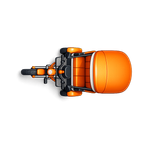
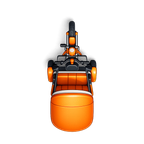
fix(driver): post-completion hero shows GROSS + TC clarity + triciclo PNG NORTH
Driver post-completion UX cleanup (TripCompleteView + trip/[id] detail):

HERO (TripCompleteView only):
- ANTES: "+$2,805 este viaje" mostrando el NET (fare − commission + tip)
- DESPUÉS: "Tarifa del viaje: $3,300" mostrando el GROSS (lo cobrado
  al cliente). El driver y el cliente ven el mismo número.

BREAKDOWN (both screens, mismo cambio):
- QUITADO: fila "Te llevás / Cobras en efectivo: X CUP" + separator
  anterior. El hero ya da el contexto principal; el net se entiende
  del cálculo (Tarifa − Comisión + Tip).
- AGREGADO: equivalencia TC al lado del valor CUP de comisión:
  "Comisión plataforma (15%): -$495 (= 495 TC)"
- CAPTION: cambia de "La comisión se descuenta de tu saldo" a
  "Se descuenta de tu saldo TriciCoin (1 CUP = 1 TC)" — siempre
  visible (no más condicional a isCash, porque la comisión SIEMPRE
  se descuenta del TC del driver, confirmado con user 2026-05-24).

i18n (es/en/pt):
- "earned_this_ride": "Tarifa del viaje: {{amount}}" (+ EN/PT eq.)
- "commission_deducted": "Se descuenta de tu saldo TriciCoin (1 CUP = 1 TC)"
- new key "tc_equivalent": "(= {{tc}} TC)" — abreviatura compartida

PNGs (cherry-pick del work manual del user):
- apps/driver/assets/vehicles/markers/triciclo{,@2x,@3x}.png rotados
  manualmente por el user para que apunten NORTH como los otros vehicles
  (moto/auto/confort). Cierra el bug "triciclo apunta a la izquierda"
  que dejé pendiente en el PR #182 (yo asumí incorrectamente que el
[…]

Changed region(s): [[0.1111, 0.1111, 0.9167, 0.9167]]

diff --git a/apps/driver/src/components/trip/TripCompleteView.tsx b/apps/driver/src/components/trip/TripCompleteView.tsx
@@ -193,11 +193,12 @@ export function TripCompleteView() {
             }}
           >
             {t('trip.earned_this_ride', {
-              /* BUG-fare-audit B4: usar el `netEarnings` ya computado arriba
-                 (línea 83) con la commissionRate live en lugar de hardcodear
-                 0.85. Antes el hero mostraba un número y el breakdown otro
-                 cuando la rate real ≠ 15%. */
-              amount: `$${netEarnings.toLocaleString()}`,
+              /* BUG-fare-driver-hero-gross: el hero ahora muestra GROSS
+                 (tarifa cobrada al cliente), no el NET. El driver y el
+                 cliente ven el mismo número, y el breakdown abajo aclara
+                 la comisión. El i18n string también cambia: ahora dice
+                 "Tarifa del viaje: $X" en lugar de "+$X este viaje". */
+              amount: `$${fare.toLocaleString()}`,
             })}
           </Text>
         )}
@@ -275,7 +276,10 @@ export function TripCompleteView() {
               })}
             </Text>
             <Text variant="bodySmall" style={{ color: midnightEmber.state.danger }}>
-              -{formatCUP(commissionAmount)}
+              {/* BUG-fare-driver-hero-gross: agregar `(= X TC)` para aclarar
+                 que la comisión se descuenta del saldo TriciCoin del driver
+                 (peg 1:1 con CUP, mismo valor numérico). */}
+              -{formatCUP(commissionAmount)} {t('trip.tc_equivalent', { tc: commissionAmount, defaultValue: '(= {{tc}} TC)' })}
             </Text>
           </View>
           {tipAmount > 0 && (
@@ -288,29 +292,19 @@ export function TripCompleteView() {
               </Text>
             </View>
           )}
-          <View style={{ height: 1, marginVertical: 6, backgroundColor: midnightEmber.map.line.hairline }} />
-          <View style={{ flexDirection: 'row', justifyContent: 'space-between' }}>
-            <Text
-              variant="body"
-              style={{ color: midnightEmber.map.text.primary, fontWeight: '700' }}
-            >
-              {isCash ? t('trip.collect_cash', { defaultValue: 'Cobras en efectivo' }) : t('trip.net_earnings', { defaultValue: 'Ganancia neta' })}
-            </Text>
-            <Text
-              variant="body"
-              style={{ color: midnightEmber.accent[500], fontWeight: '700' }}
-            >
-              {formatCUP(netEarnings)}
-            </Text>
-          </View>
-          {isCash && (
-            <Text
-              variant="caption"
-              style={{ color: midnightEmber.map.text.tertiary, marginTop: 4 }}
-            >
-              {t('trip.commission_deducted', { defaultValue: 'La comisión se descuenta de tu saldo' })}
-            </Text>
-          )}
+          {/* BUG-fare-driver-hero-gross: removido el bloque "Te llevás / Cobras
+             en efectivo" + separator anterior. El hero arriba ya muestra el
+             GROSS (lo cobrado al cliente) y el breakdown muestra la comisión.
+             Mostrar también el NET acá era redundante y confundía. */}
+          <Text
+            variant="caption"
+            style={{ color: midnightEmber.map.text.tertiary, marginTop: 4 }}
+          >
+            {/* Caption siempre visible (no solo en cash): la comisión SIEMPRE
+               se descuenta del saldo TC del driver, independientemente del
+               payment_method (confirmado con user 2026-05-24). */}
+            {t('trip.commission_deducted', { defaultValue: 'Se descuenta de tu saldo TriciCoin (1 CUP = 1 TC)' })}
+          </Text>
           {activeTrip.payment_method === 'mixed' && (
             <View
               style={{

diff --git a/apps/driver/app/trip/[id].tsx b/apps/driver/app/trip/[id].tsx
@@ -222,22 +222,18 @@ export default function TripDetailScreen() {
             <Text variant="bodySmall" color="primary" className="opacity-60">
               {t('trip.platform_commission_pct', { pct: Math.round(commissionRate * 100) })}
             </Text>
-            <Text variant="bodySmall" className="text-red-400">-{formatCUP(commissionAmount)}</Text>
-          </View>
-          <View className="h-px bg-[#E2E8F0] my-2" />
-          <View className="flex-row justify-between">
-            <Text variant="body" color="primary" className="font-bold">
-              {isCash
-                ? t('trip.collect_cash', { defaultValue: 'Cobras en efectivo' })
-                : t('trip.net_earnings', { defaultValue: 'Ganancia neta' })}
+            <Text variant="bodySmall" className="text-red-400">
+              {/* BUG-fare-driver-hero-gross: consistencia con TripCompleteView. */}
+              -{formatCUP(commissionAmount)} {t('trip.tc_equivalent', { tc: commissionAmount, defaultValue: '(= {{tc}} TC)' })}
             </Text>
-            <Text variant="body" color="accent" className="font-bold">{formatCUP(netEarnings)}</Text>
           </View>
-          {isCash && (
-            <Text variant="caption" color="primary" className="opacity-40 mt-1">
-              {t('trip.commission_deducted', { defaultValue: 'La comisión se descuenta de tu saldo' })}
-            </Text>
-          )}
+          {/* BUG-fare-driver-hero-gross: removido el bloque "Te llevás / Cobras
+             en efectivo" + separator. El header de precio arriba ya muestra GROSS;
+             el breakdown muestra la comisión; el net se entiende del cálculo. */}
+          <Text variant="caption" color="primary" className="opacity-40 mt-1">
+            {/* Caption siempre visible: la comisión SIEMPRE se descuenta del TC del driver. */}
+            {t('trip.commission_deducted', { defaultValue: 'Se descuenta de tu saldo TriciCoin (1 CUP = 1 TC)' })}
+          </Text>
         </Card>
 
         {/* Trip stats */}
